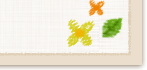
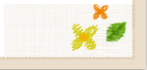
（スマホVer2の修正）横幅が狭いと装飾が切れる、影が横幅によって濃くなったり薄くなったりする

Changed region(s): [[0.0, 0.0, 0.9252, 0.8286], [0.0, 0.0, 1.0, 1.0]]

diff --git a/035/devStuff/src/parts/_031_catchText.scss b/035/devStuff/src/parts/_031_catchText.scss
@@ -410,21 +410,24 @@
   }
 
   .t0-b-catchText#{$variation2of2} {
-    text-align: center;
-    margin: 0 auto;
-    border-radius: 10px;
-    background-repeat: no-repeat, no-repeat, no-repeat, no-repeat;
-    background-position: left top, left bottom, right bottom, right top;
-    background-image: url("../imgs/t0-b-catchText/2/sp_bg.png"), url("../imgs/t0-b-catchText/2/sp_bg2.png"), url("../imgs/t0-b-catchText/2/sp_bg3.png"), url("../imgs/t0-b-catchText/2/sp_bg4.png");
-    position: relative;
-    padding: 71px 18px;
-    color: #333;
-    box-sizing: border-box;
+    background-image: url("../imgs/t0-b-catchText/2/bg9.png");
+    border-radius: 7px;
     &__inner {
+      box-shadow: 0 1px 5px -2px #000000ab;
+      text-align: center;
+      margin: 1px 3px 3px;
+      border-radius: 7px;
+      background-repeat: no-repeat, no-repeat, no-repeat, no-repeat;
+      background-position: left top, left bottom, right bottom, right top;
+      background-image: url("../imgs/t0-b-catchText/2/sp_bg.png"), url("../imgs/t0-b-catchText/2/sp_bg2.png"), url("../imgs/t0-b-catchText/2/sp_bg3.png"), url("../imgs/t0-b-catchText/2/sp_bg4.png");
+      position: relative;
+      padding: 71px 18px;
+      color: #333;
+      box-sizing: border-box;
       > span {
         background-repeat: repeat-y, repeat-y;
         background-position: left top, right top;
-        background-image: url("../imgs/t0-b-catchText/2/bg5.png"), url("../imgs/t0-b-catchText/2/bg7.png");
+        background-image: url("../imgs/t0-b-catchText/2/sp_bg5.png"), url("../imgs/t0-b-catchText/2/sp_bg7.png");
         position: absolute;
         top: 79px;
         bottom: 68px;
